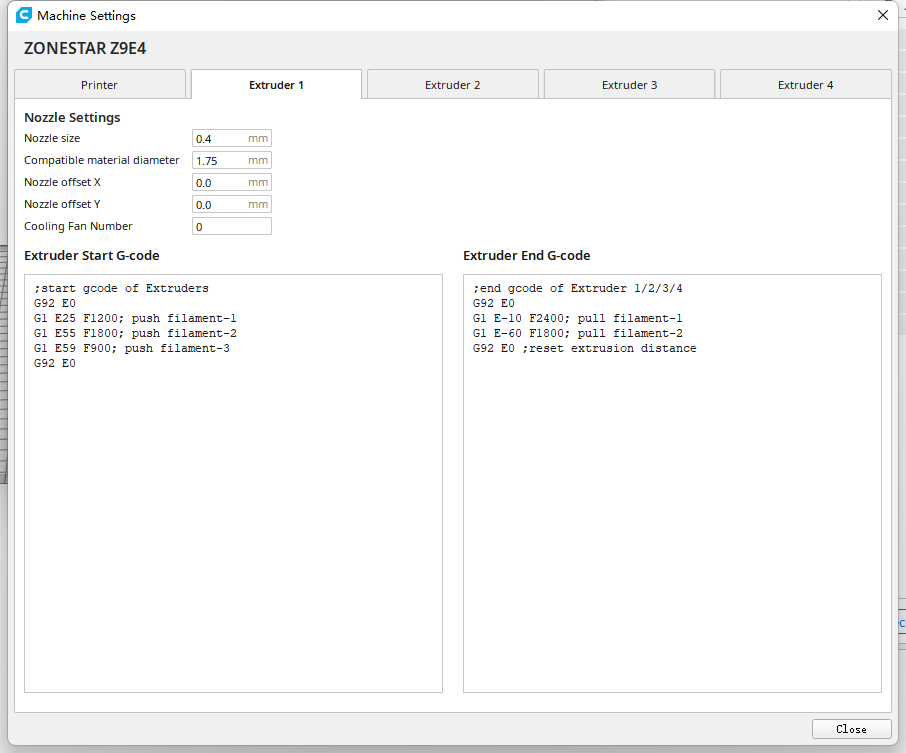
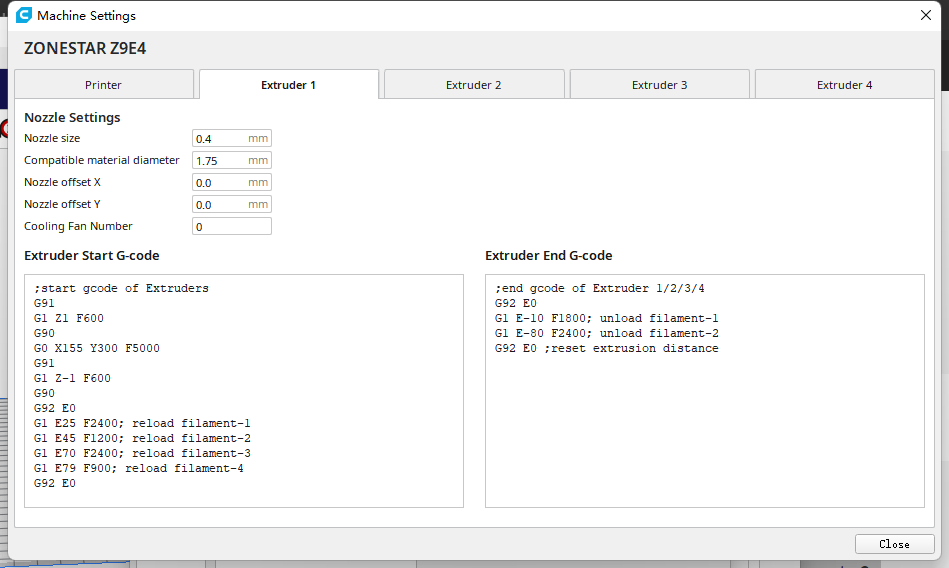
update E4 example

Changed region(s): [[0.0, 0.0, 1.0, 1.0], [0.4945, 0.3292, 0.7726, 0.6285], [0.3709, 0.0, 1.0, 0.1796]]

diff --git a/HOTEND/E4 4-IN-1-OUT Non-Mixing Color Hotend/example/readme.md b/HOTEND/E4 4-IN-1-OUT Non-Mixing Color Hotend/example/readme.md
@@ -131,7 +131,7 @@ Please refer to the below pictures to load filaments every time you print by E4 
     G1 E-80 F2400
     G92 E0
     ;===Pre-load filament end
-    ;M117 Pls confirm filaments load well!
+    ;M117 Confirm filaments load well!
     ;M300 S5000 P100
     ;G4 P200
     ;M300 S5000 P100
@@ -140,6 +140,7 @@ Please refer to the below pictures to load filaments every time you print by E4 
     ;G4 P200
     ;M0
 ### End G-code
+>
     ;Z9E4 end gcode
     G28 XY
     M140 S0 ; cool bed
@@ -150,10 +151,21 @@ Please refer to the below pictures to load filaments every time you print by E4 
     M84 ; disable steppers
 
 ### Extruder gcode
-Add the "extruder start gcode" and "extruder stop gcode" to all of extruders.  
+Add the "extruder start gcode" and "extruder end gcode" to all of extruders.  
 ![](./4_Color_Dog/settings2.png)   
+![](./4_Color_Dog/settings22.png)   
+![](./4_Color_Dog/settings23.png)   
+![](./4_Color_Dog/settings24.png)   
 #### Extrduer start G-code
-    ;start gcode of Extruders     
+>
+    ;start gcode of Extruders   
+    G91 
+    G1 Z1 F600
+    G90
+    G0 X155 Y300 F5000 
+    G91 
+    G1 Z-1 F600
+    G90  
     G92 E0
     G1 E25 F2400; reload filament-1
     G1 E45 F1200; reload filament-2
@@ -162,6 +174,7 @@ Add the "extruder start gcode" and "extruder stop gcode" to all of extruders.
     G92 E0
 
 #### Extrduer End G-code
+>
     ;end gcode of Extruder 1/2/3/4 
     G92 E0
     G1 E-10 F1800; unload filament-1
